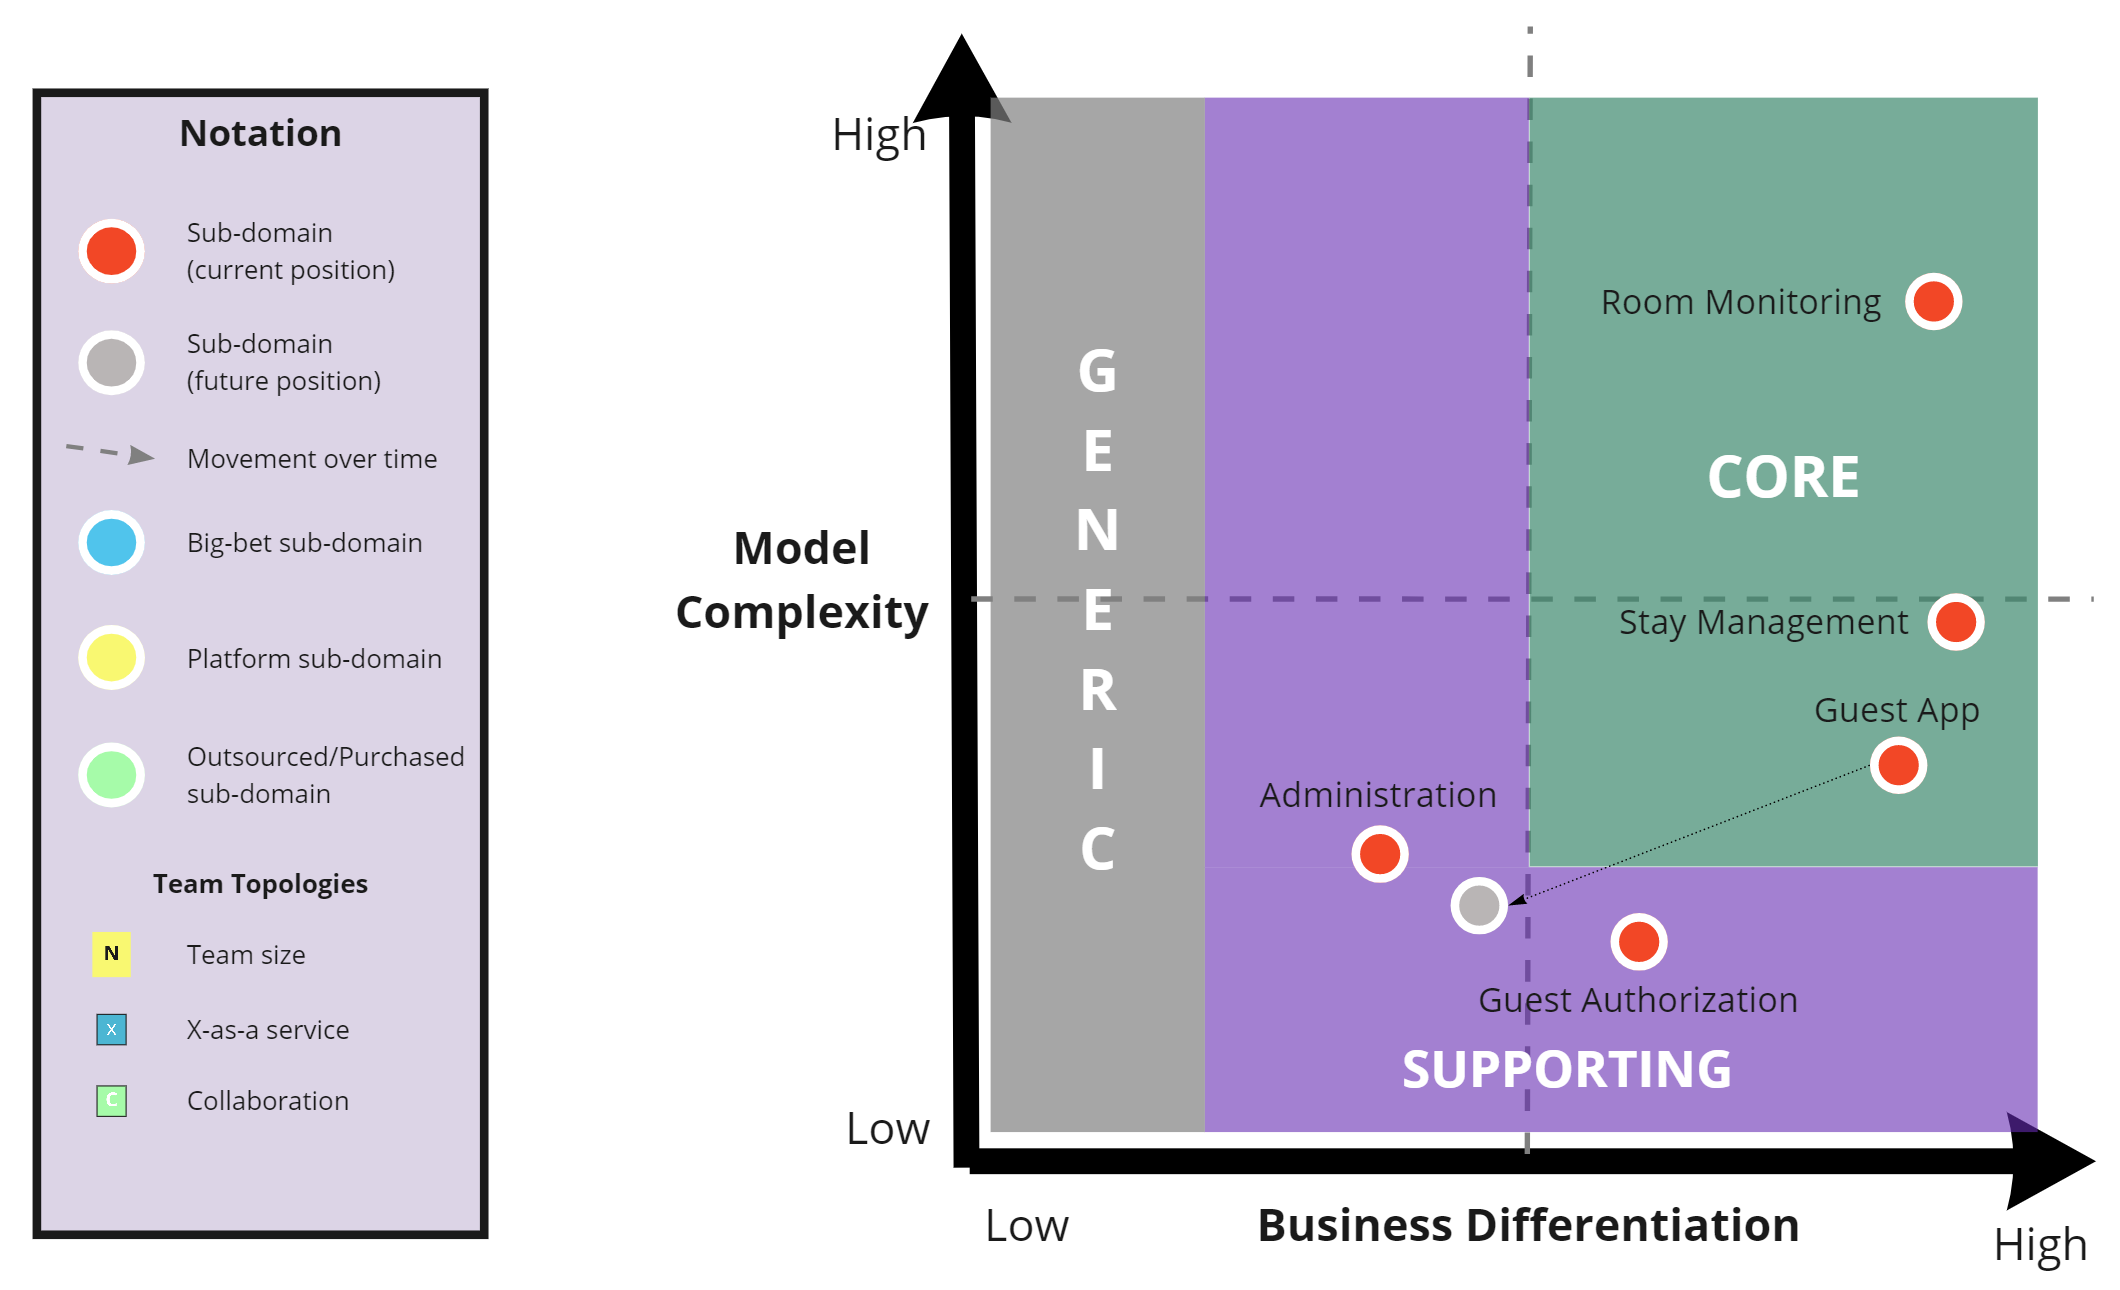
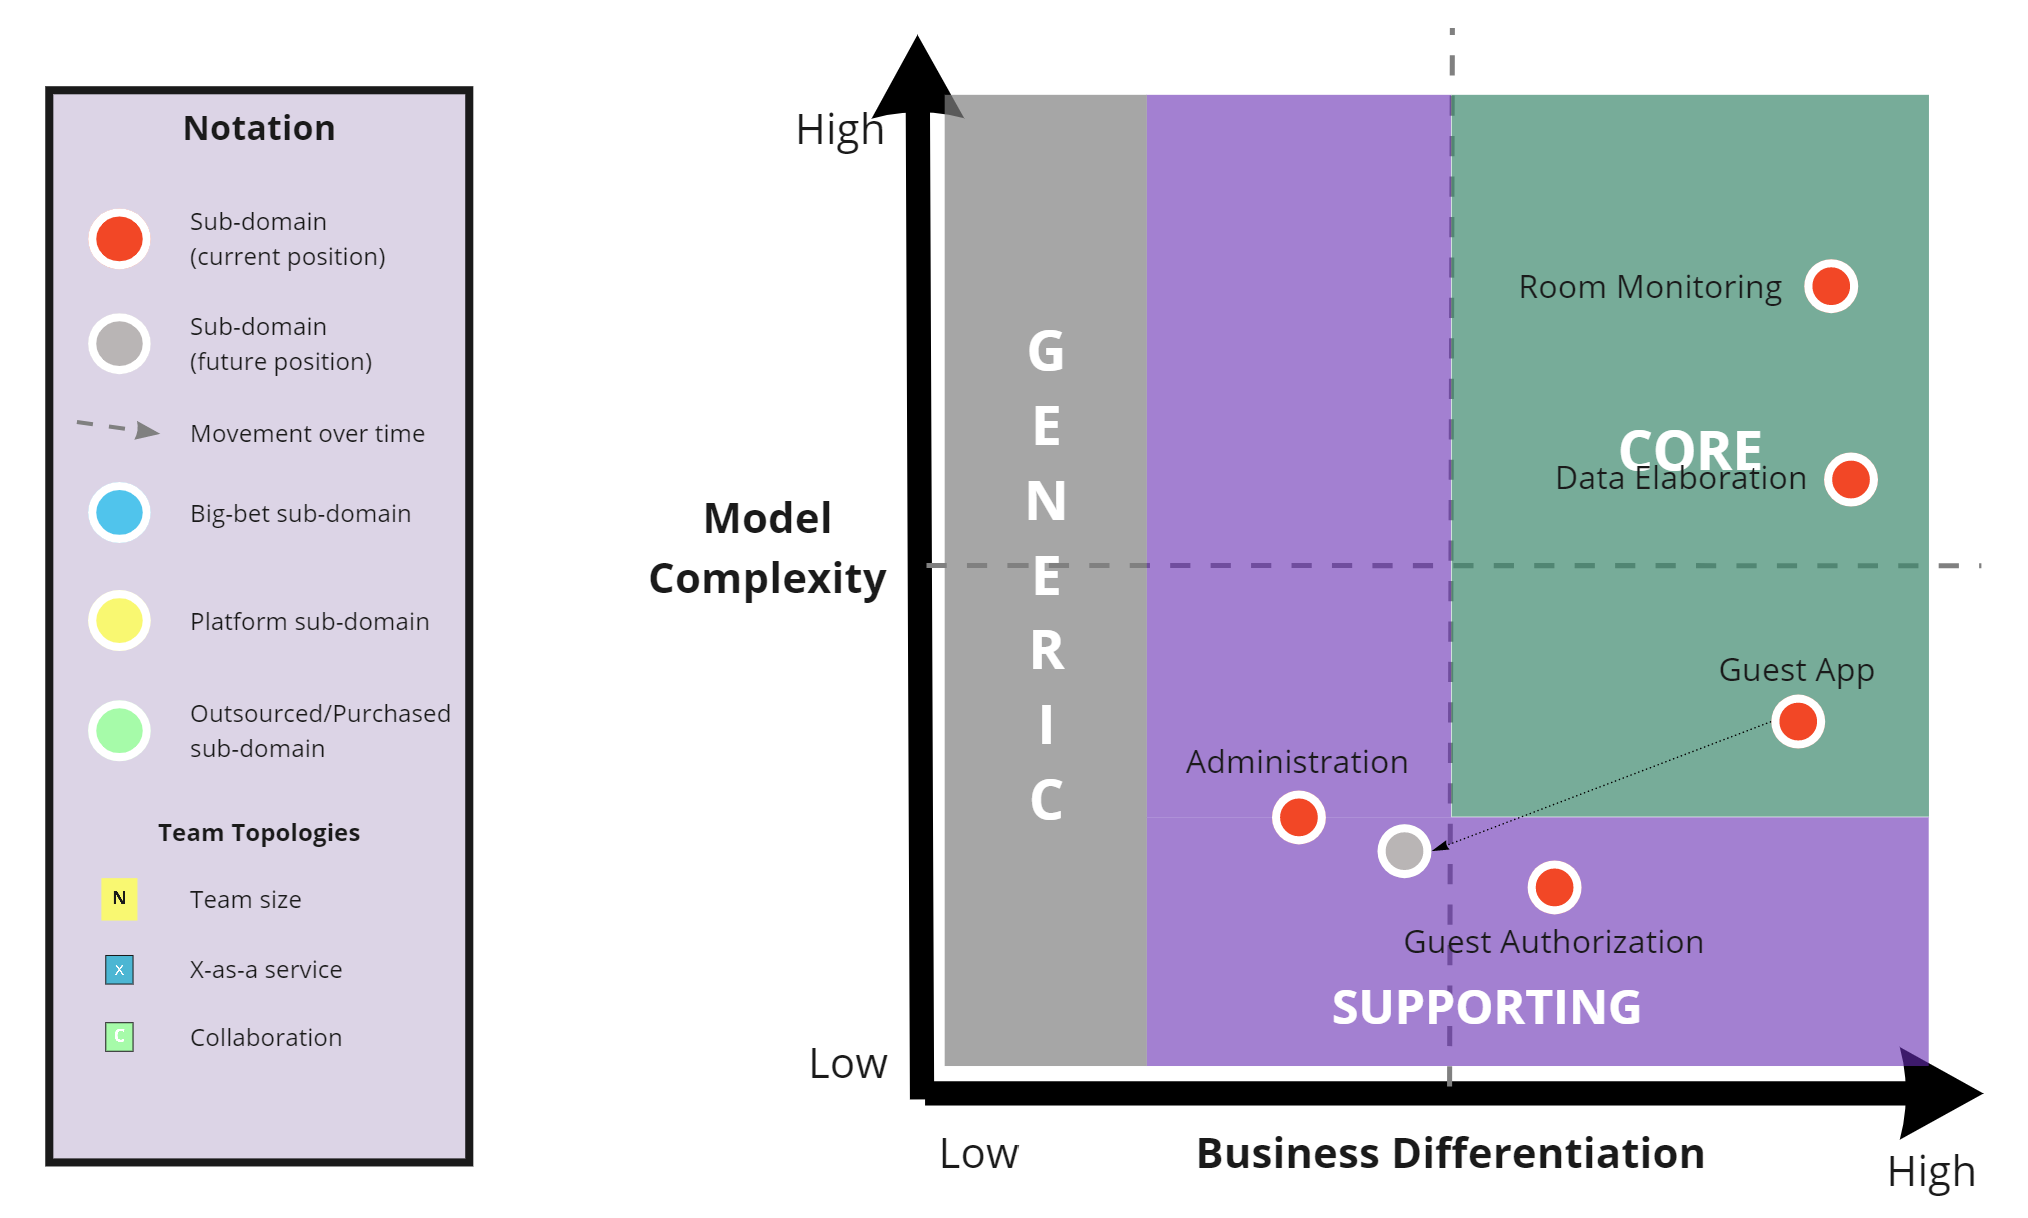
refactor: subdomains

diff --git a/src/knowledge-crunching.md b/src/knowledge-crunching.md
@@ -130,14 +130,14 @@ Abbiamo identificato 4 sottodomini del dominio.
 
 Administration: comprende le funzionalità di amministrazione generale mediante
 apposito pannello di controllo, ovvero la configurazione di nuovi hotel, account
-utente/hotelier e centraline.
-
-Stay Management: riassume i vari use case relativi alla gestione del soggiorno
-da parte dell'hotelier compreso check-in, check-out ed il calcolo del punteggio
-sostenibilità.
+utente/hotelier e centraline. Comprende anche la gestione dei soggiorni con
+check-in e check-out da parte dell'hotelier.
 
 Room Monitoring: comprende i sistemi e la sonsoristica necessari per la raccolta
 e lo stoccaggio in cloud dei dati delle stanze degli hotel.
+
+Data Elaboration: comprende il calcolo della stima dei consumi C02 e del
+puntenggio "sostenibilità" relativo ai soggiorni.
 
 Guest Authorization: include il processo di generazione del token per un nuovo
 soggiorno ed il suo trasferimento alla centralina e successivamente allo
